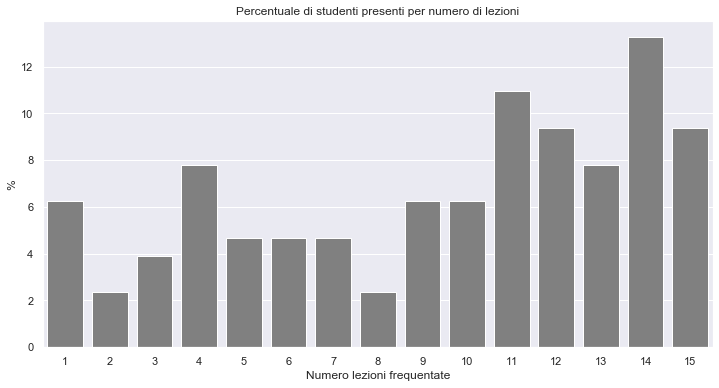
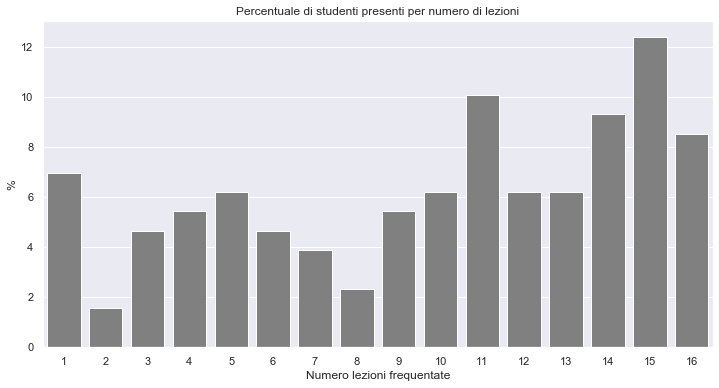
Updated freqs

diff --git a/sito/frequenze.md b/sito/frequenze.md
@@ -8,7 +8,7 @@ Questa pagina contiene una analisi *aggregata* delle informazioni riguardanti la
 
 Il primo grafico riporta il numero assoluto di studenti presenti 
 per ciascuna lezione che si è svolta alla data odierna, in media
-sono stati presenti **79.93** (σ=14.27) studenti.
+sono stati presenti **79.0** (σ=14.28) studenti.
 
 
 
@@ -21,7 +21,7 @@ sono stati presenti **79.93** (σ=14.27) studenti.
 
 
 Il grafico seguente riporta la percentuale degli studenti (rispetto al numero 
-totale **128** di studenti che hanno assistito ad almeno una lezione), che sono stati 
+totale **129** di studenti che hanno assistito ad almeno una lezione), che sono stati 
 presenti ad un dato numero di lezioni.
 
 
